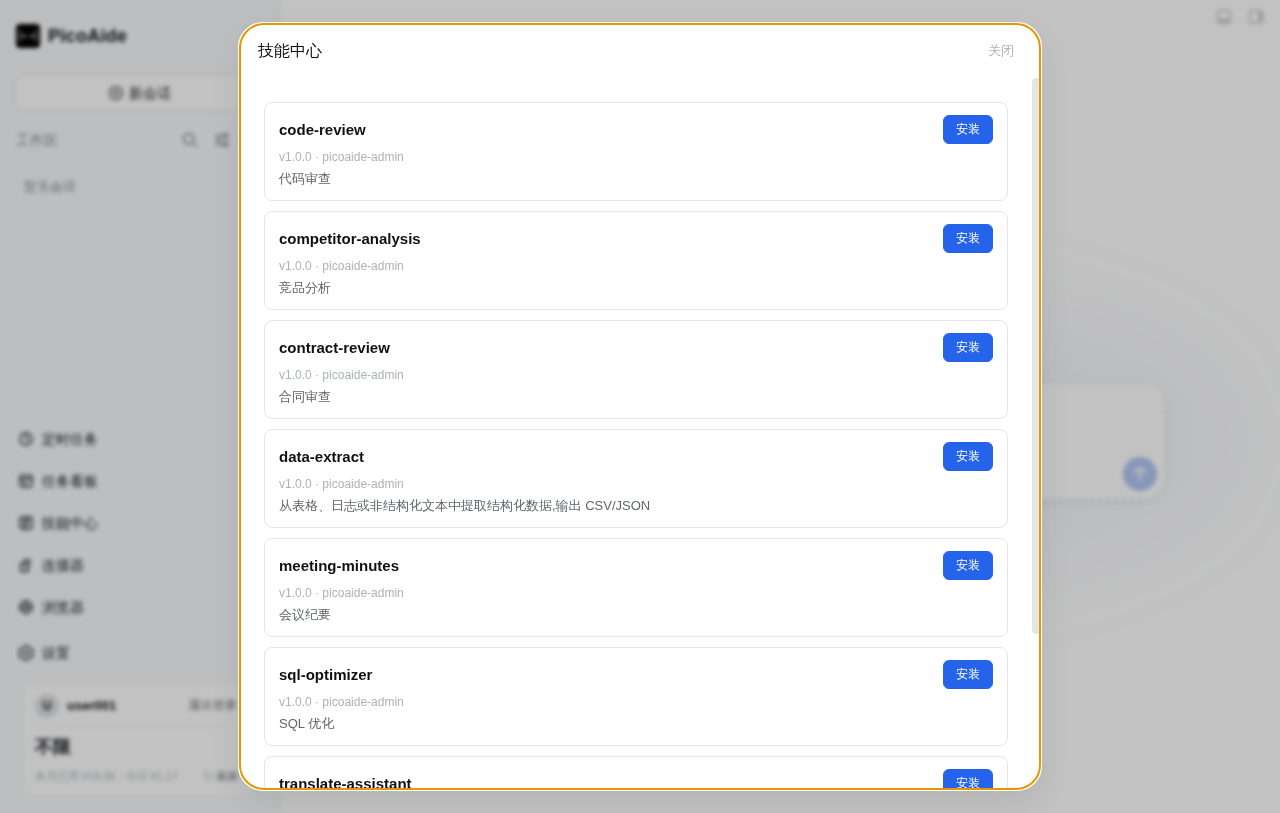
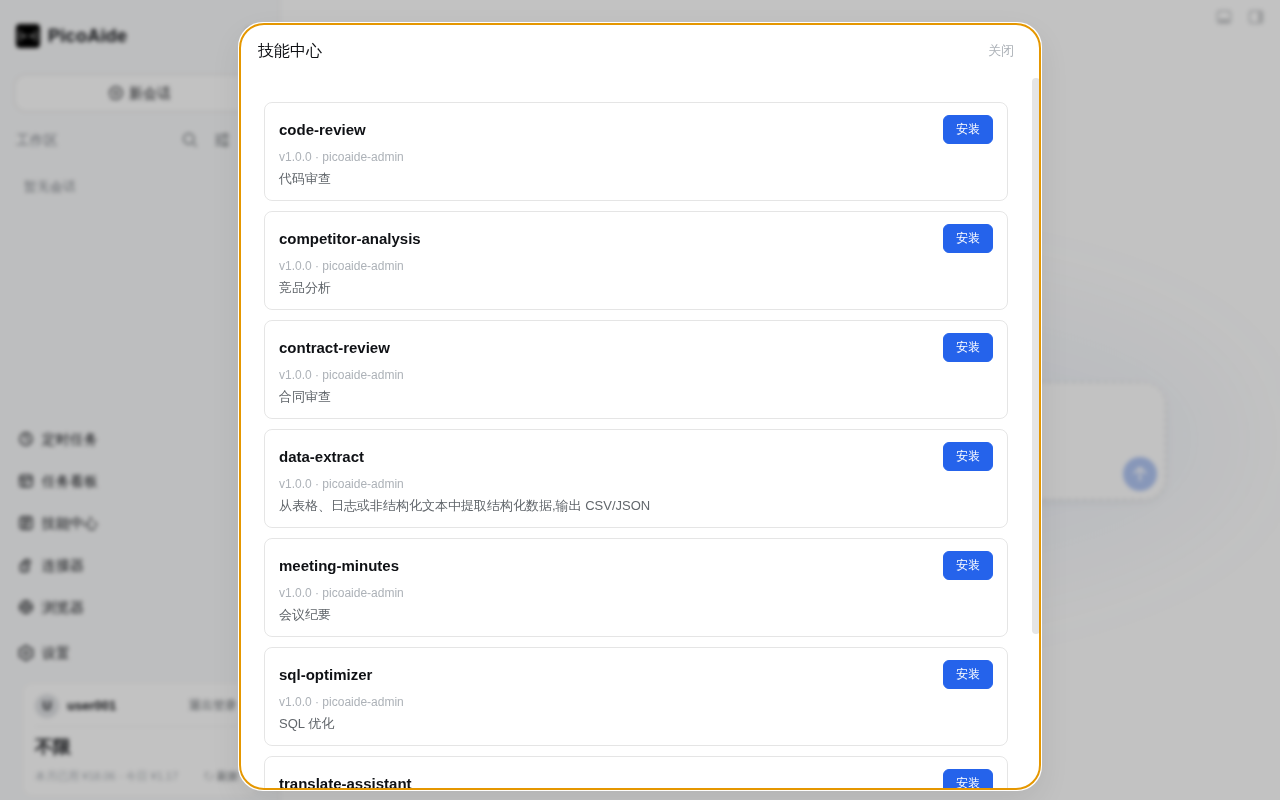
fix(site): 截图墙统一 16:10 比例 + 新增更新说明区
- 截图墙：9 张截图统一 640x400（16:10）输出
  - 源图桌面 1280x813 预裁为 1280x800（16:10），后台 1440x900 本就 16:10
  - Image 组件统一 width=640 height=400，消除桌面/后台高度差与错位
- 新增「更新说明」区（首页 FAQ 前）：
  - 自动取最新 3 篇博客渲染（version 徽章 + 日期 + 标题 + 描述）
  - blog schema 增加 version 字段；release-2.1.0 标注 2.1.0
  - 跳转博客查看全部更新

diff --git a/site/src/styles/global.css b/site/src/styles/global.css
@@ -136,6 +136,17 @@ h1, h2, h3, h4 {
   box-shadow: var(--shadow);
 }
 
+/* 统一截图展示比例（桌面 1280x813 与后台 1440x900 原图比例不同，用固定比例裁切对齐） */
+.gallery figure img {
+  display: block;
+  width: 100%;
+  aspect-ratio: 16 / 10;
+  object-fit: cover;
+  object-position: top;
+  border-radius: 0;
+  background: var(--line);
+}
+
 .gallery figcaption {
   padding: 10px 14px;
   font-size: 0.9rem;

diff --git a/site/src/content.config.ts b/site/src/content.config.ts
@@ -12,6 +12,7 @@ const blog = defineCollection({
     updatedDate: z.coerce.date().optional(),
     tags: z.array(z.string()).default([]),
     author: z.string().default('PicoAide Team'),
+    version: z.string().optional(),
     cover: z.string().optional(),
     draft: z.boolean().default(false),
   }),

diff --git a/site/src/content/blog/release-2.1.0.md b/site/src/content/blog/release-2.1.0.md
@@ -2,6 +2,7 @@
 title: PicoAide Harness 2.1.0 发布
 description: 桌面客户端升级源切换至 GitHub Releases，新增 Linux 支持与自动化发布流水线。
 pubDate: 2026-08-23
+version: 2.1.0
 author: PicoAide Team
 tags:
   - 发布
